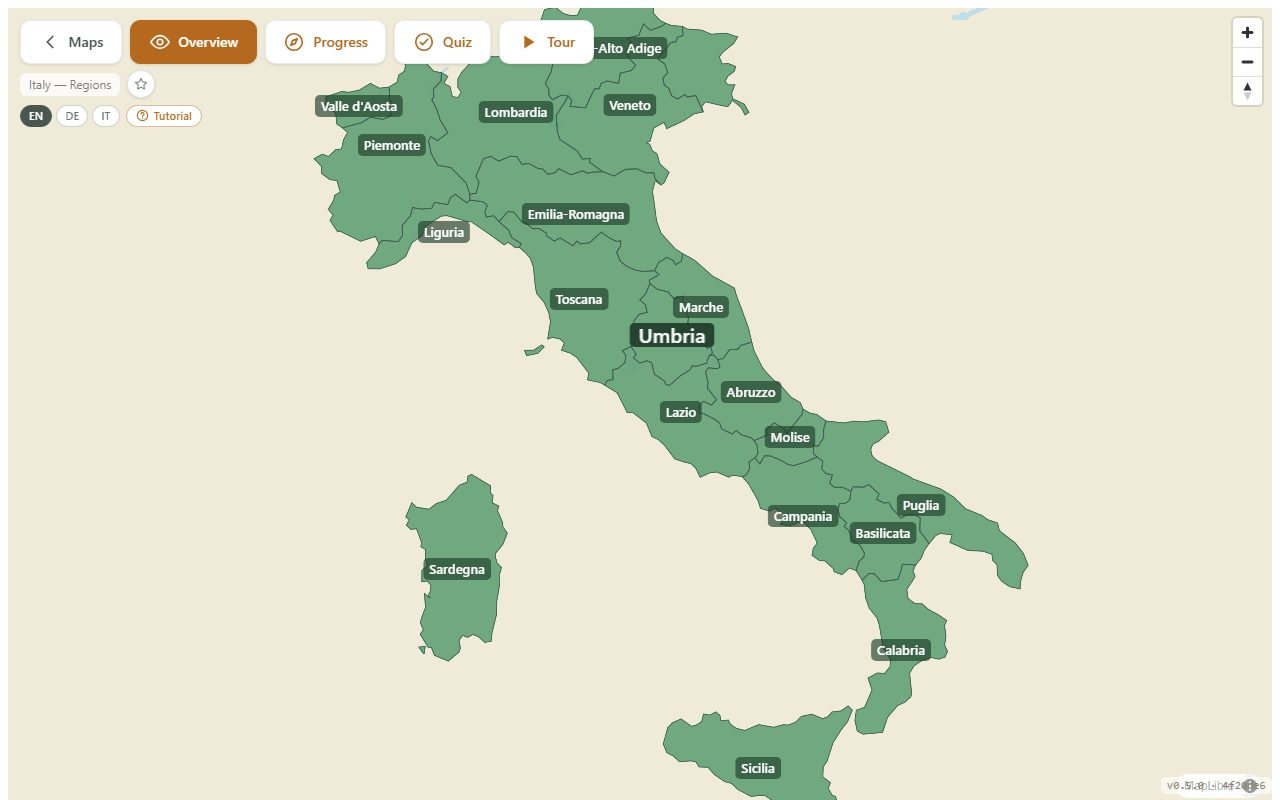
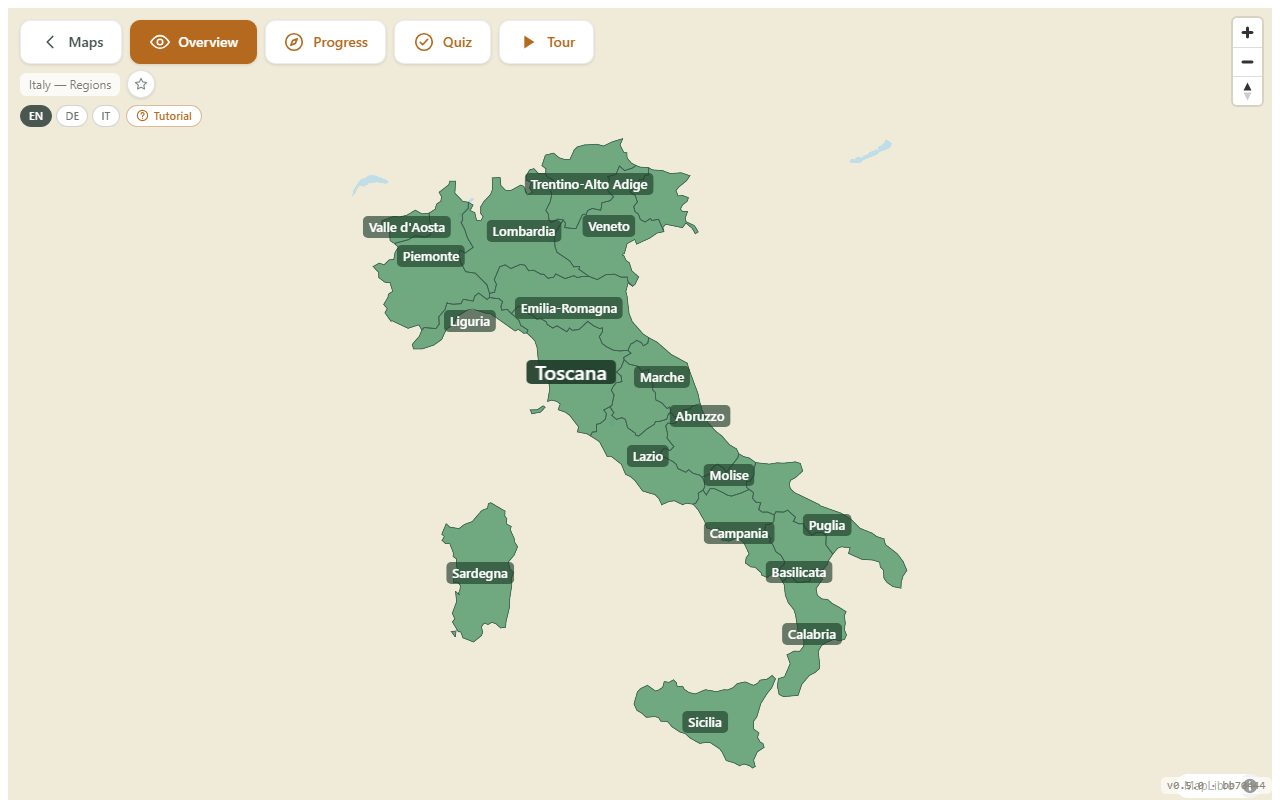
FT-25: a map opens fully visible
Review blocker F1: the camera was fitted to the whole canvas, so on a
phone the northernmost regions started behind the map bar and the first
thing a player had to do was pan. Two changes:

- Every overlay says where it is (data-map-overlay="top" / "bottom") and
  mapFit.ts measures them, so the opening fit keeps the map clear of the
  map bar, the quiz tray and the tour's controls. A covered side gets a
  12px margin rather than a bare edge's 40: the furniture is already a
  boundary, and on a phone the pixels given back are map. Anything added
  later is accounted for by saying so in its markup.
- The fit covers each target's whole extent, not just its centroid
  (overallExtent), so Puglia's heel and the west of Nordrhein-Westfalen
  are no longer half off the screen. A target whose bbox wraps the
  antimeridian still counts as its centroid only - Alaska's Aleutian tip
  would otherwise pull the camera out to the hemisphere.

window.__map, the dev-only handle a browser check drives the map with,
moves from QuizView to createMap, so every view has one.

Verified at 390x844 on Germany, Italy and Japan, on the overview, the
progress map and the quiz: the northernmost and southernmost targets are
inside the part of the screen nothing covers, and no target's extent is
cut off on Germany, Italy, Japan, the USA, Indonesia, Australia or Italy
- Towns. Russia is the known exception, recorded in DECISIONS.md: that
[…]

diff --git a/app/src/lib/mapFit.ts b/app/src/lib/mapFit.ts
@@ -1,0 +1,71 @@
+// How a map is framed: what a fit has to leave clear for the view's own
+// furniture (FT-25, docs/PLAN_V0.6.md). Its own module, away from
+// geoclickMap.ts's MapLibre and PMTiles plumbing, because it is plain DOM
+// measurement - and testable as such.
+
+/** Air between the map's targets and a bare edge of the screen. */
+const EDGE_MARGIN_PX = 40;
+/** Air between the targets and a piece of furniture, which is already a
+ * visible boundary of its own - so less of it is needed than at a bare edge,
+ * and on a phone every pixel given back here is map. */
+const OVERLAY_MARGIN_PX = 12;
+// A fit cannot ask for more padding than the map has room for: MapLibre
+// gives up ("Map cannot fit within canvas...") and leaves the camera where it
+// was. The furniture legitimately takes a lot of a phone screen - a map bar
+// and a quiz tray together are over half of it - so the limit is high, and
+// only steps in when a view would leave the map almost nothing.
+const MAX_PADDING_FRACTION = 0.85;
+
+export interface FitPadding {
+	top: number;
+	right: number;
+	bottom: number;
+	left: number;
+}
+
+/**
+ * How much of the map each view's own furniture covers, measured from the DOM
+ * (FT-25). The map bar sits over the top of the map, the quiz tray and the
+ * tour's controls over the bottom, so a fit that ignores them starts with the
+ * northernmost regions hidden behind the bar - on a phone the first thing a
+ * player had to do was pan (v0.5.0 product review, F1). Every overlay marks
+ * itself with data-map-overlay="top" / "bottom"; anything new is included by
+ * saying so in its markup.
+ *
+ * `extra` adds to a side beyond what is on screen right now - the quiz uses
+ * it for the height its tray is about to have.
+ */
+export function mapFitPadding(container: HTMLElement, extra: Partial<FitPadding> = {}): FitPadding {
+	const box = container.getBoundingClientRect();
+	const root = container.parentElement ?? container;
+	const padding: FitPadding = {
+		top: extra.top ?? 0,
+		right: extra.right ?? 0,
+		bottom: extra.bottom ?? 0,
+		left: extra.left ?? 0
+	};
+	for (const overlay of root.querySelectorAll<HTMLElement>('[data-map-overlay]')) {
+		const rect = overlay.getBoundingClientRect();
+		if (rect.width === 0 || rect.height === 0) continue;
+		const side = overlay.dataset.mapOverlay;
+		if (side === 'top') padding.top = Math.max(padding.top, rect.bottom - box.top);
+		else if (side === 'bottom') padding.bottom = Math.max(padding.bottom, box.bottom - rect.top);
+		else if (side === 'left') padding.left = Math.max(padding.left, rect.right - box.left);
+		else if (side === 'right') padding.right = Math.max(padding.right, box.right - rect.left);
+	}
+	for (const side of ['top', 'right', 'bottom', 'left'] as const) {
+		const covered = padding[side] > 0;
+		padding[side] = Math.max(0, padding[side]) + (covered ? OVERLAY_MARGIN_PX : EDGE_MARGIN_PX);
+	}
+	// Scale each axis back if the furniture leaves too little room to fit into.
+	const fit = (a: 'top' | 'left', b: 'bottom' | 'right', size: number) => {
+		const room = size * MAX_PADDING_FRACTION;
+		const asked = padding[a] + padding[b];
+		if (asked <= room || asked === 0) return;
+		padding[a] = (padding[a] / asked) * room;
+		padding[b] = (padding[b] / asked) * room;
+	};
+	fit('top', 'bottom', box.height);
+	fit('left', 'right', box.width);
+	return padding;
+}

diff --git a/app/src/lib/QuizView.svelte b/app/src/lib/QuizView.svelte
@@ -4,6 +4,7 @@
 	import 'maplibre-gl/dist/maplibre-gl.css';
 	import { resolve } from '$app/paths';
 	import { fetchMapDefAndStyle, createMap } from './geoclickMap';
+	import { mapFitPadding } from './mapFit';
 	import { resolveDrop } from './quizDrop';
 	import MapNav from './MapNav.svelte';
 	import { t, tPlural } from './i18n.svelte';
@@ -17,7 +18,7 @@
 		scoreSession,
 		type QuizSession
 	} from '@geoclick/quiz-engine';
-	import { overallBounds, type MapDefinition } from './mapDefinition';
+	import { overallExtent, type MapDefinition } from './mapDefinition';
 	import { handSize, mapLevel, refillHand, type Level } from './difficulty';
 	import {
 		createProgressRepository,
@@ -131,13 +132,16 @@
 			const naturalPx = handleRowPx + traySlipsEl.scrollHeight;
 			const defaultCapPx = window.innerHeight * TRAY_DEFAULT_CAP_FRACTION;
 			trayHeightPx = Math.min(Math.max(naturalPx, trayMinPx), Math.min(defaultCapPx, trayMaxPx));
-			// Fit the map into the space above the tray, once its height is known.
-			// Fitted to the whole view, the southernmost targets started out under
-			// the tray (Sicily on Italy - Regions, at 1280x800 and on phones),
-			// which the tutorial's "try Sicilia" step ran straight into (FT-11).
-			if (map && mapDef)
-				map.fitBounds(overallBounds(mapDef), {
-					padding: { top: 40, right: 40, left: 40, bottom: trayHeightPx + 40 },
+			// Fit the map into the space the tray and the map bar leave it, once
+			// the tray's height is known. Fitted to the whole view, the
+			// southernmost targets started out under the tray (Sicily on Italy -
+			// Regions, at 1280x800 and on phones), which the tutorial's "try
+			// Sicilia" step ran straight into (FT-11), and the northernmost ones
+			// under the map bar (FT-25). The tray's new height is not on screen
+			// yet, so it is passed in rather than measured.
+			if (map && mapDef && container)
+				map.fitBounds(overallExtent(mapDef), {
+					padding: mapFitPadding(container, { bottom: trayHeightPx }),
 					duration: 0
 				});
 		} else {
@@ -634,13 +638,6 @@
 			if (cancelled) return;
 
 			map = createMap(container, loadedMapDef, style);
-			if (import.meta.env.DEV && typeof window !== 'undefined') {
-				// Debug/test aid: lets integration tests (and manual debugging)
-				// drive the real map instance, e.g. map.project(lngLat) to find
-				// screen coordinates for a drag target. Dev server only - it
-				// used to ship to every user of the production build.
-				(window as unknown as { __map?: maplibregl.Map }).__map = map;
-			}
 
 			if (notDueIds.size === loadedMapDef.targets.length) {
 				phase = 'upToDate';
@@ -783,7 +780,12 @@
 	<div class="container" bind:this={container}></div>
 
 	{#if session}
-		<div class="tray" bind:this={trayEl} style="height: {trayHeightPx ?? trayMinPx}px">
+		<div
+			class="tray"
+			data-map-overlay="bottom"
+			bind:this={trayEl}
+			style="height: {trayHeightPx ?? trayMinPx}px"
+		>
 			<div class="tray-handle-row" bind:this={trayHandleRowEl}>
 				<div
 					class="tray-handle"

diff --git a/app/src/lib/mapFit.browser.test.ts b/app/src/lib/mapFit.browser.test.ts
@@ -1,0 +1,66 @@
+// Runs in the browser project (real Chromium): the padding is measured from
+// real elements laid out by the browser.
+import { afterEach, describe, expect, it } from 'vitest';
+import { mapFitPadding } from './mapFit';
+
+// The shape every map view has: overlays over a full-size map container.
+function view({
+	top = 0,
+	bottom = 0,
+	width = 390,
+	height = 844
+}: { top?: number; bottom?: number; width?: number; height?: number } = {}) {
+	const root = document.createElement('div');
+	root.style.cssText = `position:fixed;left:0;top:0;width:${width}px;height:${height}px`;
+	root.innerHTML = `
+		${top ? `<div data-map-overlay="top" style="position:absolute;left:12px;top:12px;width:200px;height:${top}px"></div>` : ''}
+		${bottom ? `<div data-map-overlay="bottom" style="position:absolute;left:0;bottom:0;width:100%;height:${bottom}px"></div>` : ''}
+		<div class="container" style="position:absolute;inset:0"></div>`;
+	document.body.append(root);
+	return root.querySelector<HTMLElement>('.container')!;
+}
+
+describe('mapFitPadding', () => {
+	afterEach(() => document.body.replaceChildren());
+
+	it('leaves a plain margin when nothing covers the map', () => {
+		expect(mapFitPadding(view())).toEqual({ top: 40, right: 40, bottom: 40, left: 40 });
+	});
+
+	it('clears the map bar at the top, margin included', () => {
+		// The bar starts 12px down and is 100px tall, so it ends at 112, and
+		// the map keeps a small gap below it.
+		expect(mapFitPadding(view({ top: 100 })).top).toBe(124);
+	});
+
+	it('clears the quiz tray at the bottom', () => {
+		expect(mapFitPadding(view({ top: 100, bottom: 250 }))).toMatchObject({
+			top: 124,
+			bottom: 262
+		});
+	});
+
+	it('takes a height that is not on screen yet, for a tray about to grow', () => {
+		// What the quiz does: it knows the tray's new height before the DOM does.
+		expect(mapFitPadding(view({ top: 100 }), { bottom: 250 }).bottom).toBe(262);
+	});
+
+	it('keeps the larger of the measured and the given height', () => {
+		expect(mapFitPadding(view({ bottom: 250 }), { bottom: 60 }).bottom).toBe(262);
+	});
+
+	it('scales back padding the map has no room for, keeping the ratio', () => {
+		// A short map with a tray taking almost all of it: MapLibre would refuse
+		// to fit at all, so the furniture gives a little back.
+		const padding = mapFitPadding(view({ top: 60, bottom: 380, height: 500 }));
+		expect(padding.top + padding.bottom).toBeCloseTo(425, 5);
+		expect(padding.bottom).toBeGreaterThan(padding.top);
+	});
+
+	it('ignores an overlay that isn\u2019t showing', () => {
+		const container = view({ top: 100 });
+		container.parentElement!.querySelector<HTMLElement>('[data-map-overlay]')!.style.display =
+			'none';
+		expect(mapFitPadding(container).top).toBe(40);
+	});
+});

diff --git a/app/src/lib/TourView.svelte b/app/src/lib/TourView.svelte
@@ -3,6 +3,7 @@
 	import * as maplibregl from 'maplibre-gl';
 	import 'maplibre-gl/dist/maplibre-gl.css';
 	import { fetchMapDefAndStyle, createMap } from './geoclickMap';
+	import { mapFitPadding } from './mapFit';
 	import MapNav from './MapNav.svelte';
 	import { t } from './i18n.svelte';
 	import { mapDisplayName } from './mapCatalog';
@@ -27,6 +28,9 @@
 	let speed = $state(1);
 
 	const BASE_FLIGHT_MS = 1200;
+	// Air around the place a stop is looking at, on top of whatever the view
+	// furniture already takes (mapFitPadding adds its own margin).
+	const STOP_MARGIN_PX = 40;
 	// Above every other label: the tour is showing this one name on purpose.
 	const TOUR_NAME_PRIORITY = 1000;
 	// A point target's bbox is degenerate (see mapDefinition.ts) - fitting
@@ -70,10 +74,19 @@
 			{ highlighted: true }
 		);
 		const flightDuration = Math.max(150, BASE_FLIGHT_MS / speed);
+		// Frame the stop in the space the map bar and the controls leave, not
+		// in the whole canvas (FT-25) - otherwise a northern target flies to
+		// a spot half-covered by the bar.
+		const padding = mapFitPadding(container, { top: STOP_MARGIN_PX, bottom: STOP_MARGIN_PX });
 		if (target.type === 'city') {
-			map.flyTo({ center: target.centroid, zoom: POINT_TOUR_ZOOM, duration: flightDuration });
+			map.flyTo({
+				center: target.centroid,
+				zoom: POINT_TOUR_ZOOM,
+				padding,
+				duration: flightDuration
+			});
 		} else {
-			map.fitBounds(target.bbox, { padding: 80, duration: flightDuration });
+			map.fitBounds(target.bbox, { padding, duration: flightDuration });
 		}
 
 		popup ??= new maplibregl.Popup({
@@ -182,7 +195,7 @@
 		<MapNav {mapId} mapName={mapDisplayName(mapId) ?? mapDef?.name} active="tour" />
 
 		{#if tour}
-			<div class="controls">
+			<div class="controls" data-map-overlay="bottom">
 				<button onclick={back} disabled={stepIndex === 0}>{t('tour.prev')}</button>
 				<button onclick={togglePlay}>
 					{#if finished}{t('tour.replay')}{:else if playing}{t('tour.pause')}{:else}{t(

diff --git a/app/src/lib/geoclickMap.ts b/app/src/lib/geoclickMap.ts
@@ -8,7 +8,8 @@ import { asset } from '$app/paths';
 import { enableLabelMagnify } from './labelMagnify';
 import { enableLabelCollision } from './labelCollision';
 import { isNativeShell } from './platform';
-import { overallBounds, type MapDefinition } from './mapDefinition';
+import { overallExtent, type MapDefinition } from './mapDefinition';
+import { mapFitPadding } from './mapFit';
 
 let protocol: Protocol | undefined;
 
@@ -100,8 +101,10 @@ export function createMap(
 	const map = new maplibregl.Map({
 		container,
 		style,
-		bounds: overallBounds(mapDef),
-		fitBoundsOptions: { padding: 40 }
+		bounds: overallExtent(mapDef),
+		// The map bar is already on screen, so the opening fit can keep the
+		// whole map clear of it (FT-25).
+		fitBoundsOptions: { padding: mapFitPadding(container) }
 	});
 	map.addControl(new maplibregl.NavigationControl(), 'top-right');
 	// The tutorial rings the +/- buttons in its zoom-and-pan step (FT-11).
@@ -134,5 +137,13 @@ export function createMap(
 	// Names never overlap (FT-23): whatever names a view draws, the ones that
 	// don't fit are hidden until the player zooms in far enough for them.
 	map.once('remove', enableLabelCollision(map, container));
+
+	if (import.meta.env.DEV && typeof window !== 'undefined') {
+		// Debug/test aid, on the dev server only (it used to ship to every user
+		// of the production build): lets a browser check, or a person in the
+		// console, drive the real map of whichever view is open - e.g.
+		// map.project(lngLat) for the screen position of a place.
+		(window as unknown as { __map?: maplibregl.Map }).__map = map;
+	}
 	return map;
 }

diff --git a/app/src/lib/mapDefinition.ts b/app/src/lib/mapDefinition.ts
@@ -36,6 +36,32 @@ export interface MapDefinition {
 	tourOrder: string[];
 }
 
+/**
+ * Bounds that cover every target's whole extent, for the opening camera fit
+ * (FT-25). Fitting to centroids alone (overallBounds below) left the outer
+ * targets half off the screen on a phone - Puglia's heel on Italy, the west
+ * of Nordrhein-Westfalen on Germany - and the first thing a player had to do
+ * was pan, which is what the v0.5.0 review called out (F1).
+ *
+ * A target whose bbox wraps the antimeridian contributes its centroid only:
+ * merging a wrapping box with non-wrapping ones is ambiguous (see
+ * build-map.ts), and its extent is what would otherwise pull the camera out
+ * to the whole hemisphere - Alaska's Aleutian tip being the reason the fit
+ * was built from centroids in the first place.
+ */
+export function overallExtent(map: MapDefinition): [number, number, number, number] {
+	let [minLon, minLat, maxLon, maxLat] = overallBounds(map);
+	for (const target of map.targets) {
+		if (target.crossesAntimeridian) continue;
+		const [west, south, east, north] = target.bbox;
+		minLon = Math.min(minLon, west);
+		maxLon = Math.max(maxLon, east);
+		minLat = Math.min(minLat, south);
+		maxLat = Math.max(maxLat, north);
+	}
+	return [minLon, minLat, maxLon, maxLat];
+}
+
 /** Overall bounds across every target, for the initial camera fit. Built
  * from centroids rather than per-target bboxes: a target's bbox can wrap
  * the antimeridian (see build-map.ts), and merging wrapping and

diff --git a/app/src/lib/MapNav.svelte b/app/src/lib/MapNav.svelte
@@ -42,7 +42,7 @@
 	onMount(() => recordVisit(mapId));
 </script>
 
-<div class="nav-overlay">
+<div class="nav-overlay" data-map-overlay="top">
 	<div class="nav-row">
 		<a class="nav-btn nav-btn--back" href={resolve('/')}>
 			<svg

diff --git a/DECISIONS.md b/DECISIONS.md
@@ -1102,6 +1102,33 @@ answers:
   - The favourite star is a tip in the outro, not a step. Finish leaves
     the player on the tour, which keeps playing.
 
+## A map opens fully visible (2026-09-18, FT-25)
+
+- **The opening fit leaves room for the view's own furniture.** The map
+  bar sits over the top of every map screen and the quiz tray over the
+  bottom, but the camera was fitted to the whole canvas, so on a phone
+  the northernmost regions started behind the bar and the first thing a
+  player had to do was pan - which the v0.5.0 product review called a
+  blocker (F1). Each overlay now says where it is
+  (`data-map-overlay="top"`/`"bottom"`) and the fit measures them, so
+  anything added later is accounted for by saying so in its markup.
+  A side that is covered gets a smaller margin than a bare edge (12 px
+  against 40): the furniture is already a visible boundary, and on a
+  phone every pixel given back is map.
+- **The fit covers each target's whole extent, not just its centroid.**
+  Fitting to centroids (the v0.5.0 behaviour) left the outer targets
+  half off the screen on a phone - Puglia's heel, the west of
+  Nordrhein-Westfalen - which is the same "you have to pan before you
+  can play" problem. A target whose bbox wraps the antimeridian still
+  contributes only its centroid: merging a wrapping box with the others
+  is ambiguous, and Alaska's Aleutian tip would pull the camera out to
+  the whole hemisphere.
+- **What this cannot fix:** a map that reaches far north on a tall narrow
+  screen (Russia at 390 px) hits MapLibre's own limit - the world would
+  be shorter than the viewport - so the camera is clamped and the far
+  north still sits partly behind the bar. Every region's centre is on
+  screen; the alternative would be a map that stops being Mercator.
+
 ## Names never overlap (2026-09-18, FT-23/FT-24)
 
 - **A name is either legible or it isn't drawn.** The product owner's

diff --git a/ONBOARDING.md b/ONBOARDING.md
@@ -519,6 +519,16 @@ that same discipline into any task you pick up:
     `'city'`), so the name sits beside the dot instead of on it; leave it
     out for a region. Forget the call and the label still works - it just
     ranks 0 and never moves.
+  - A view's own furniture marks itself with `data-map-overlay="top"` or
+    `"bottom"` (FT-25). `mapFit.ts` measures those elements and the
+    opening fit keeps the whole map clear of them, so a new overlay - a
+    banner, a second bar - only has to say where it is. The quiz passes
+    its tray's height in as well, because it sets that height and fits in
+    the same tick, before the DOM has it.
+  - `window.__map` is the real MapLibre map of whichever map view is
+    open, on the dev server only (`createMap`). Browser checks use it for
+    `map.project(lngLat)` - the screen position of a place - which is how
+    the label and framing checks in v0.6.0 were written.
 - **Commit messages end with** `Co-Authored-By: Claude Sonnet 5
   <noreply@anthropic.com>` when Claude made the change — see CLAUDE.md.
 

diff --git a/docs/USER_MANUAL.md b/docs/USER_MANUAL.md
@@ -286,7 +286,7 @@ it (tap it again, or tap anywhere else, to shrink it back). The name grows
 to about one and a half times its size, darkens, and sits on top of its
 neighbours:
 
-![Overview: pointing at "Umbria" enlarges it](manual/overview-magnified.jpg)
+![Overview: pointing at "Toscana" enlarges it](manual/overview-magnified.jpg)
 
 **Zooming in** spreads the names apart, and brings in any that were left
 out. Here Italy — Regions after two clicks on **+**:
